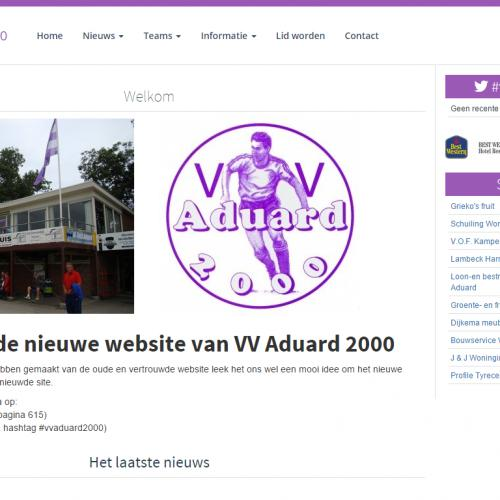
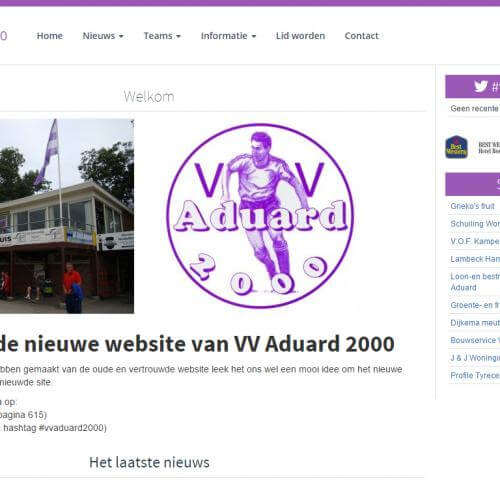
Optimized images and changed font

diff --git a/public/css/front.css b/public/css/front.css
@@ -1,1 +1,1 @@
-@import url(http://fonts.googleapis.com/css?family=Open+Sans+Condensed:300);p{font-family:Helvetica,sans-serif;font-size:14px}h1{font-family:'Open Sans Condensed',sans-serif;font-size:48px}h2{font-family:'Open Sans Condensed',sans-serif;font-size:36px}h3{font-family:Helvetica,sans-serif;font-size:28px}body,html,main{height:100%}.cd-fixed-bg{min-height:80vh;background-size:cover;background-attachment:fixed;background-repeat:no-repeat;background-position:center center;position:relative;display:-webkit-box;display:-ms-flexbox;display:flex;-webkit-box-orient:vertical;-webkit-box-direction:normal;-ms-flex-direction:column;flex-direction:column;-webkit-box-pack:center;-ms-flex-pack:center;justify-content:center;-webkit-box-align:center;-ms-flex-align:center;align-items:center}@media screen and (max-width:767px){.cd-fixed-bg{height:100%}}.cd-fixed-bg .color-overlay{position:absolute;min-height:100%;width:100%}.cd-fixed-bg .color-overlay .bg-txt-home{position:absolute;width:100%;height:100%;color:#ecf0f1;display:-webkit-box;display:-ms-flexbox;display:flex;-webkit-box-orient:vertical;-webkit-box-direction:normal;-ms-flex-direction:column;flex-direction:column;-webkit-box-pack:center;-ms-flex-pack:center;justify-content:center;-webkit-box-align:center;-ms-flex-align:center;align-items:center;padding:0 15px}.cd-fixed-bg .color-overlay .bg-txt-home .section{max-width:960px;text-align:center}.cd-fixed-bg .color-overlay .bg-txt-home #services-intro{margin-bottom:15px}.cd-fixed-bg .color-overlay .bg-txt{position:absolute;width:100%;height:100%;text-align:center;color:#ecf0f1}.cd-fixed-bg .color-overlay .bg-txt #contact-form{width:50%;text-align:left;margin:0 auto}.cd-scrolling-bg{min-height:80vh;display:-webkit-box;display:-ms-flexbox;display:flex;-webkit-box-orient:vertical;-webkit-box-direction:normal;-ms-flex-direction:column;flex-direction:column;-webkit-box-pack:center;-ms-flex-pack:center;justify-content:center;-webkit-box-align:center;-ms-flex-align:center;align-items:center;text-align:center}@media screen and (max-width:767px){.cd-scrolling-bg{display:block;overflow:auto}}.cd-scrolling-bg .cd-container{width:80%;color:#2c3e50;display:-webkit-box;display:-ms-flexbox;display:flex;-webkit-box-orient:vertical;-webkit-box-direction:normal;-ms-flex-direction:column;flex-direction:column;-webkit-box-pack:center;-ms-flex-pack:center;justify-content:center;-webkit-box-align:center;-ms-flex-align:center;align-items:center}@media screen and (max-width:767px){.cd-scrolling-bg .cd-container{width:100%}}.section{text-align:center;border-top:1px solid #e2e2e2}.section.about,.section.contact,.section.social{padding:24px 0;width:80vw;margin:0 auto}.social .twitter{color:#1da1f2}.social .medium{color:#000}.social .github{color:#000}.social .linkedin{color:#0073b1}.about img{max-width:300px;height:auto;margin-bottom:15px}.more-link{background-color:#3498db;color:#fff;padding:16px 24px;border-radius:4px;margin-top:8px}.more-link:hover{text-decoration:none;color:#fff;background-color:#258cd1}.read-more-button{background-color:#e2e2e2;color:#000;padding:8px 16px;border-radius:4px}.read-more-button:hover{text-decoration:none;color:#000;background-color:#d5d5d5}.navbar{border-radius:0;margin-bottom:0;background:0 0;z-index:999;-webkit-transition-duration:1s;-o-transition-duration:1s;transition-duration:1s}.navbar .navbar-header .navbar-toggle{color:#fff;border:transparent}.navbar .navbar-header .navbar-toggle:hover{background-color:rgba(255,255,255,.3);color:#000}.navbar .navbar-header .navbar-brand{color:#ecf0f1;font-size:22px}.navbar .navbar-header .navbar-brand:hover{color:#3498db}.navbar .navbar-collapse .navbar-nav{margin-right:15px}.navbar .navbar-collapse .navbar-nav li a{color:#ecf0f1;font-weight:700;display:block;height:65px;padding:8px 10px 10px 10px;line-height:50px;margin:0 5px}.navbar .navbar-collapse .navbar-nav li a:active,.navbar .navbar-collapse .navbar-nav li a:focus,.navbar .navbar-collapse .navbar-nav li a:hover{background-color:transparent;color:#3498db}.navbar .navbar-collapse .navbar-nav .active{color:#3498db;border-bottom:3px solid #3498db}@media screen and (max-width:767px){.navbar .navbar-collapse{background-color:rgba(0,0,0,.5);border-bottom:2px solid rgba(255,255,255,.7)}.navbar .navbar-collapse .navbar-nav{margin:0;margin-bottom:10px}.navbar .navbar-collapse .navbar-nav li{padding-top:5px}.navbar .navbar-collapse .navbar-nav li a{text-align:center}}.work-panel{width:100%;color:#2c3e50;text-align:center}.work-panel .items .work{padding:5px;text-align:left;height:100%}.work-panel .items .work .work-item{height:100%;background-color:#fff;padding:15px;-webkit-box-shadow:2px 2px 2px #efefef;box-shadow:2px 2px 2px #efefef;border:1px solid #efefef}.work-panel .items .work .work-item img{width:100%}.work-panel .items .work #add-work{color:#2980b9;border:5px dashed #2980b9;background-color:transparent;height:100%;min-height:100px;width:100%;display:table;-webkit-transition-duration:.5s;-o-transition-duration:.5s;transition-duration:.5s}.work-panel .items .work #add-work .fa{font-size:36px;text-align:center;display:table-cell;vertical-align:middle}.work-panel .items .work #add-work:hover{color:#ecf0f1;background-color:#2980b9}.work-panel .items .more-link{color:#000}html{position:relative;min-height:100%}html body{background-color:#fff}html body .row{margin-bottom:20px}html body .row .modal-content{border-radius:0}html body .row .modal-content #modal-container{padding:0 10px}html body .row .modal-content #modal-container .form-control{border-radius:0}html body .row .modal-content .modal-footer{border-top:0}.cd-bg-1{background-image:url(../images/chicago.jpg)}.cd-bg-2{background-color:#34495e}.overlay-1{background-color:rgba(41,128,185,.7)}.cd-color-1{background-color:#fff}@media screen and (max-width:767px){.cd-scrolling-bg .cd-container{padding:60px;width:100%}.btn-stories{left:40%}}.form-horizontal .form-group input,.form-horizontal .form-group textarea{border:1px solid #bdc3c7}.form-horizontal .form-group input:focus,.form-horizontal .form-group textarea:focus{border:1px solid #3498db;color:#2c3e50}.form-horizontal .form-group .btn{float:right;margin-right:15px;border:0}.form-horizontal .form-group .btn:hover{background-color:#2980b9}
+h1,h2,h3,h4,p{font-family:Roboto,sans-serif}p{font-size:14px}h1{font-size:48px}h2{font-size:36px}h3{font-size:28px}body,html,main{height:100%}.cd-fixed-bg{min-height:80vh;background-size:cover;background-attachment:fixed;background-repeat:no-repeat;background-position:center center;position:relative;display:-webkit-box;display:-ms-flexbox;display:flex;-webkit-box-orient:vertical;-webkit-box-direction:normal;-ms-flex-direction:column;flex-direction:column;-webkit-box-pack:center;-ms-flex-pack:center;justify-content:center;-webkit-box-align:center;-ms-flex-align:center;align-items:center}@media screen and (max-width:767px){.cd-fixed-bg{height:100%}}.cd-fixed-bg .color-overlay{position:absolute;min-height:100%;width:100%}.cd-fixed-bg .color-overlay .bg-txt-home{position:absolute;width:100%;height:100%;color:#ecf0f1;display:-webkit-box;display:-ms-flexbox;display:flex;-webkit-box-orient:vertical;-webkit-box-direction:normal;-ms-flex-direction:column;flex-direction:column;-webkit-box-pack:center;-ms-flex-pack:center;justify-content:center;-webkit-box-align:center;-ms-flex-align:center;align-items:center;padding:0 15px}.cd-fixed-bg .color-overlay .bg-txt-home .section{max-width:960px;text-align:center}.cd-fixed-bg .color-overlay .bg-txt-home #services-intro{margin-bottom:15px}.cd-fixed-bg .color-overlay .bg-txt{position:absolute;width:100%;height:100%;text-align:center;color:#ecf0f1}.cd-fixed-bg .color-overlay .bg-txt #contact-form{width:50%;text-align:left;margin:0 auto}.cd-scrolling-bg{min-height:80vh;display:-webkit-box;display:-ms-flexbox;display:flex;-webkit-box-orient:vertical;-webkit-box-direction:normal;-ms-flex-direction:column;flex-direction:column;-webkit-box-pack:center;-ms-flex-pack:center;justify-content:center;-webkit-box-align:center;-ms-flex-align:center;align-items:center;text-align:center}@media screen and (max-width:767px){.cd-scrolling-bg{display:block;overflow:auto}}.cd-scrolling-bg .cd-container{width:80%;color:#2c3e50;display:-webkit-box;display:-ms-flexbox;display:flex;-webkit-box-orient:vertical;-webkit-box-direction:normal;-ms-flex-direction:column;flex-direction:column;-webkit-box-pack:center;-ms-flex-pack:center;justify-content:center;-webkit-box-align:center;-ms-flex-align:center;align-items:center}@media screen and (max-width:767px){.cd-scrolling-bg .cd-container{width:100%}}.section{text-align:center;border-top:1px solid #e2e2e2}.section.about,.section.contact,.section.social{padding:24px 0;width:80vw;margin:0 auto}.social .twitter{color:#1da1f2}.social .medium{color:#000}.social .github{color:#000}.social .linkedin{color:#0073b1}.about img{max-width:300px;height:auto;margin-bottom:15px}.more-link{background-color:#3498db;color:#fff;padding:16px 24px;border-radius:4px;margin-top:8px}.more-link:hover{text-decoration:none;color:#fff;background-color:#258cd1}.read-more-button{background-color:#e2e2e2;color:#000;padding:8px 16px;border-radius:4px}.read-more-button:hover{text-decoration:none;color:#000;background-color:#d5d5d5}.navbar{border-radius:0;margin-bottom:0;background:0 0;z-index:999;-webkit-transition-duration:1s;-o-transition-duration:1s;transition-duration:1s}.navbar .navbar-header .navbar-toggle{color:#fff;border:transparent}.navbar .navbar-header .navbar-toggle:hover{background-color:rgba(255,255,255,.3);color:#000}.navbar .navbar-header .navbar-brand{color:#ecf0f1;font-size:22px}.navbar .navbar-header .navbar-brand:hover{color:#3498db}.navbar .navbar-collapse .navbar-nav{margin-right:15px}.navbar .navbar-collapse .navbar-nav li a{color:#ecf0f1;font-weight:700;display:block;height:65px;padding:8px 10px 10px 10px;line-height:50px;margin:0 5px}.navbar .navbar-collapse .navbar-nav li a:active,.navbar .navbar-collapse .navbar-nav li a:focus,.navbar .navbar-collapse .navbar-nav li a:hover{background-color:transparent;color:#3498db}.navbar .navbar-collapse .navbar-nav .active{color:#3498db;border-bottom:3px solid #3498db}@media screen and (max-width:767px){.navbar .navbar-collapse{background-color:rgba(0,0,0,.5);border-bottom:2px solid rgba(255,255,255,.7)}.navbar .navbar-collapse .navbar-nav{margin:0;margin-bottom:10px}.navbar .navbar-collapse .navbar-nav li{padding-top:5px}.navbar .navbar-collapse .navbar-nav li a{text-align:center}}.work-panel{width:100%;color:#2c3e50;text-align:center}.work-panel .items .work{padding:5px;text-align:left;height:100%}.work-panel .items .work .work-item{height:100%;background-color:#fff;padding:15px;-webkit-box-shadow:2px 2px 2px #efefef;box-shadow:2px 2px 2px #efefef;border:1px solid #efefef}.work-panel .items .work .work-item img{width:100%}.work-panel .items .work #add-work{color:#2980b9;border:5px dashed #2980b9;background-color:transparent;height:100%;min-height:100px;width:100%;display:table;-webkit-transition-duration:.5s;-o-transition-duration:.5s;transition-duration:.5s}.work-panel .items .work #add-work .fa{font-size:36px;text-align:center;display:table-cell;vertical-align:middle}.work-panel .items .work #add-work:hover{color:#ecf0f1;background-color:#2980b9}.work-panel .items .more-link{color:#000}.work-page .work{border:1px solid #e2e2e2;padding:16px;margin-bottom:16px}.work-page .work img{max-width:100%}.work-detail img{max-width:100%}.work-detail .more-link{margin-top:16px;display:inline-block}html{position:relative;min-height:100%}html body{background-color:#fff}html body .row{margin-bottom:20px}html body .row .modal-content{border-radius:0}html body .row .modal-content #modal-container{padding:0 10px}html body .row .modal-content #modal-container .form-control{border-radius:0}html body .row .modal-content .modal-footer{border-top:0}.cd-bg-1{background-image:url(../images/chicago_small.jpg)}.cd-bg-2{background-color:#34495e}.overlay-1{background-color:rgba(41,128,185,.7)}.cd-color-1{background-color:#fff}@media screen and (max-width:767px){.cd-scrolling-bg .cd-container{padding:60px;width:100%}.btn-stories{left:40%}}.form-horizontal .form-group input,.form-horizontal .form-group textarea{border:1px solid #bdc3c7}.form-horizontal .form-group input:focus,.form-horizontal .form-group textarea:focus{border:1px solid #3498db;color:#2c3e50}.form-horizontal .form-group .btn{float:right;margin-right:15px;border:0}.form-horizontal .form-group .btn:hover{background-color:#2980b9}

diff --git a/public/scss/_globals.scss b/public/scss/_globals.scss
@@ -1,21 +1,20 @@
-@import url(http://fonts.googleapis.com/css?family=Open+Sans+Condensed:300);
+h1,h2,h3,h4,p {
+    font-family: Roboto, "sans-serif";
+}
+
 p {
-    font-family: Helvetica, sans-serif;
     font-size: 14px;
 }
 
 h1 {
-    font-family: 'Open Sans Condensed', sans-serif;
     font-size: 48px
 }
 
 h2 {
-    font-family: 'Open Sans Condensed', sans-serif;
     font-size: 36px
 }
 
 h3 {
-    font-family: Helvetica, sans-serif;
     font-size: 28px
 }
 

diff --git a/public/scss/_work.scss b/public/scss/_work.scss
@@ -50,3 +50,27 @@
         }
     }
 }
+
+.work-page {
+    
+    .work {
+        border: 1px solid #e2e2e2;
+        padding: 16px;
+        margin-bottom: 16px;
+        
+        img {
+            max-width: 100%;
+        }
+    }
+}
+
+.work-detail {
+    img {
+        max-width: 100%;
+    }
+    
+    .more-link {
+        margin-top: 16px;
+        display: inline-block;
+    }
+}

diff --git a/public/scss/front.scss b/public/scss/front.scss
@@ -33,7 +33,7 @@ html {
 }
 
 .cd-bg-1 {
-    background-image: url("../images/chicago.jpg")
+    background-image: url("../images/chicago_small.jpg")
 }
 
 .cd-bg-2 {

diff --git a/resources/views/public/work.blade.php b/resources/views/public/work.blade.php
@@ -5,19 +5,23 @@
 @endsection
 
 @section('content')
-    <div class="container" style="padding-top:75px;">
+    <div class="container work-page" style="padding-top:75px;">
         <div class="row">
-            <div class="work-panel">
-                <div class="items">
-                    @foreach($works as $index => $work)
-
-                        <div class="col-md-6 element work">
-                            {!! $work['text'] !!}
-                        </div>
-
-                    @endforeach
-                </div>
+            <div class="col-xs-12">
+                {!! $content !!}
             </div>
+        </div>
+
+        <div class="row">
+            @foreach($works as $index => $work)
+
+                <div class="col-md-4">
+                    <div class="element work">
+                        {!! $work['text'] !!}
+                    </div>
+                </div>
+
+            @endforeach
         </div>
     </div>
 @endsection

diff --git a/resources/views/public.blade.php b/resources/views/public.blade.php
@@ -56,8 +56,7 @@
         @section('stylesheets')
             <link href="{{ asset('css/flatly.css') }}" rel="stylesheet">
             <link rel="stylesheet" href="https://cdnjs.cloudflare.com/ajax/libs/font-awesome/4.7.0/css/font-awesome.min.css">
-            <link rel="stylesheet" href="{{ asset('css/sweet-alert.css') }}">
-            <link rel="stylesheet" href="{{ asset('css/lightbox.css') }}">
+            <link href="https://fonts.googleapis.com/css?family=Roboto:400,700" rel="stylesheet">
             <link href="{{ asset('css/front.css') }}" rel="stylesheet">
         @show
 

diff --git a/app/Http/Controllers/PublicController.php b/app/Http/Controllers/PublicController.php
@@ -82,6 +82,7 @@ class PublicController extends Controller{
 
     public function work() {
         return view('public.work', [
+            'content' => $this->parseMarkdownFile("content/blocks/work-page.md"),
             'works' => $this->getContent("content/work/snippets/*", 0),
             'page' => Page::where('name', 'work')->first()
         ]);

diff --git a/resources/views/public/workdetail.blade.php b/resources/views/public/workdetail.blade.php
@@ -23,9 +23,11 @@
 @endsection
 
 @section('content')
-    <div class="container" style="padding-top:75px;">
+    <div class="container work-detail" style="padding-top:75px;">
         <div class="row">
-            {!! $work !!}
+            <div class="col-xs-12">
+                {!! $work !!}
+            </div>
         </div>
     </div>
 @endsection

diff --git a/resources/content/work/vv-aduard-2000.md b/resources/content/work/vv-aduard-2000.md
@@ -1,7 +1,19 @@
 ![VV Aduard 2000 screenshot](/images/work/aduard_2000_1920x1080_1444039068.png "VV Aduard 2000 screenshot")
 
-### VV Aduard 2000
+# VV Aduard 2000
 
 I made a website for my old football club with the PHP Framework Laravel. 
 This website is fully responsive and has an extensive admin dashboard.
 
+I've included a Twitter feed on the left side. Recently (July 2018), 
+I've rebuilt part of the website to accomodate for dynamic pages. 
+This was one of the first Laravel websites I've created, so it was mostly hardcoded.
+Adding pages was very tedious, so I decided to take some extra time and make this process a bit easier.
+Now it has a template system, so when you want a custom layout for a specific page, 
+you can very easily add this. If you choose not to add a custom template, the page will be displayed as an image, 
+some text, and a list of attached files, if present.
+
+### Tools used
+- Laravel
+
+<a href="http://www.vvaduard2000.nl/" class="more-link">View the website here</a>

diff --git a/resources/content/work/hsv-de-hondenvrienden.md b/resources/content/work/hsv-de-hondenvrienden.md
@@ -1,6 +1,13 @@
 ![HSV De Hondenvrienden screenshot](/images/work/hsvdhv_1920x1080_1444039130.png "HSV De Hondenvrienden screenshot")
 
-### HSV De Hondenvrienden
+# HSV De Hondenvrienden
 
 This is a project that I worked on with three other people. 
-We were challenged to create a website using the Drupal CMS, and this is the result.
+This was one of the very first complete websites I've built.
+We were challenged to create a website using the Drupal CMS, and this is what we made of it.
+
+### Tools used
+- Drupal
+
+
+<a href="http://hsvdehondenvrienden.nl/" class="more-link">View the website here</a>

diff --git a/resources/content/work/abdijloop-aduard.md b/resources/content/work/abdijloop-aduard.md
@@ -1,5 +1,12 @@
 ![Abdijloop Aduard screenshot](/images/work/abdijloop_1920x1080_1523907651.png "Abdijloop Aduard screenshot")
 
-### Abdijloop Aduard
+# Abdijloop Aduard
 
 I created a simple website for Abdijloop Aduard to inform people about the race.
+While building this website, I learned more about how WordPress actually works and 
+how I can use it to make themes and plugins fairly quickly.
+
+### Tools used
+- WordPress
+
+<a href="https://abdijloopaduard.nl/" class="more-link">View the website here</a>

diff --git a/resources/content/work/nkrv.md b/resources/content/work/nkrv.md
@@ -1,7 +1,13 @@
 ![NKRV screenshot](/images/work/nkrv_1920x1080_1444039117.png "NKRV screenshot")
 
-### NKRV
+# NKRV
 
-My contribution to NKRV was not a complete website, but rather a WordPress Theme.
+My contribution to NKRV was not a complete website, but rather a WordPress Theme. 
+This project taught me more about using CSS, because it was one of my first websites.
+
+### Tools used
+- WordPress
+
+<a href="http://www.nkrv.nl/" class="more-link">View the website here</a>
 
 
